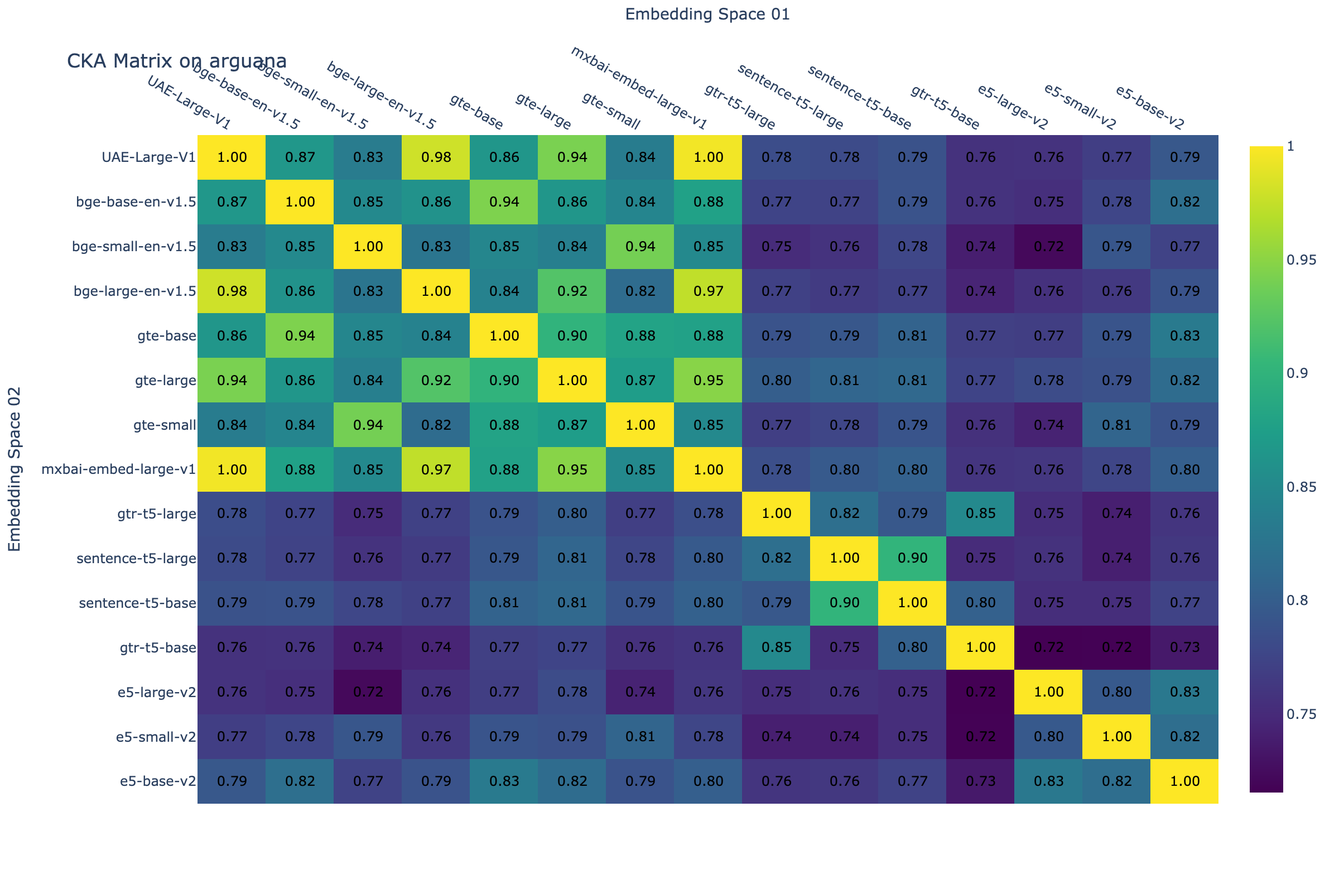
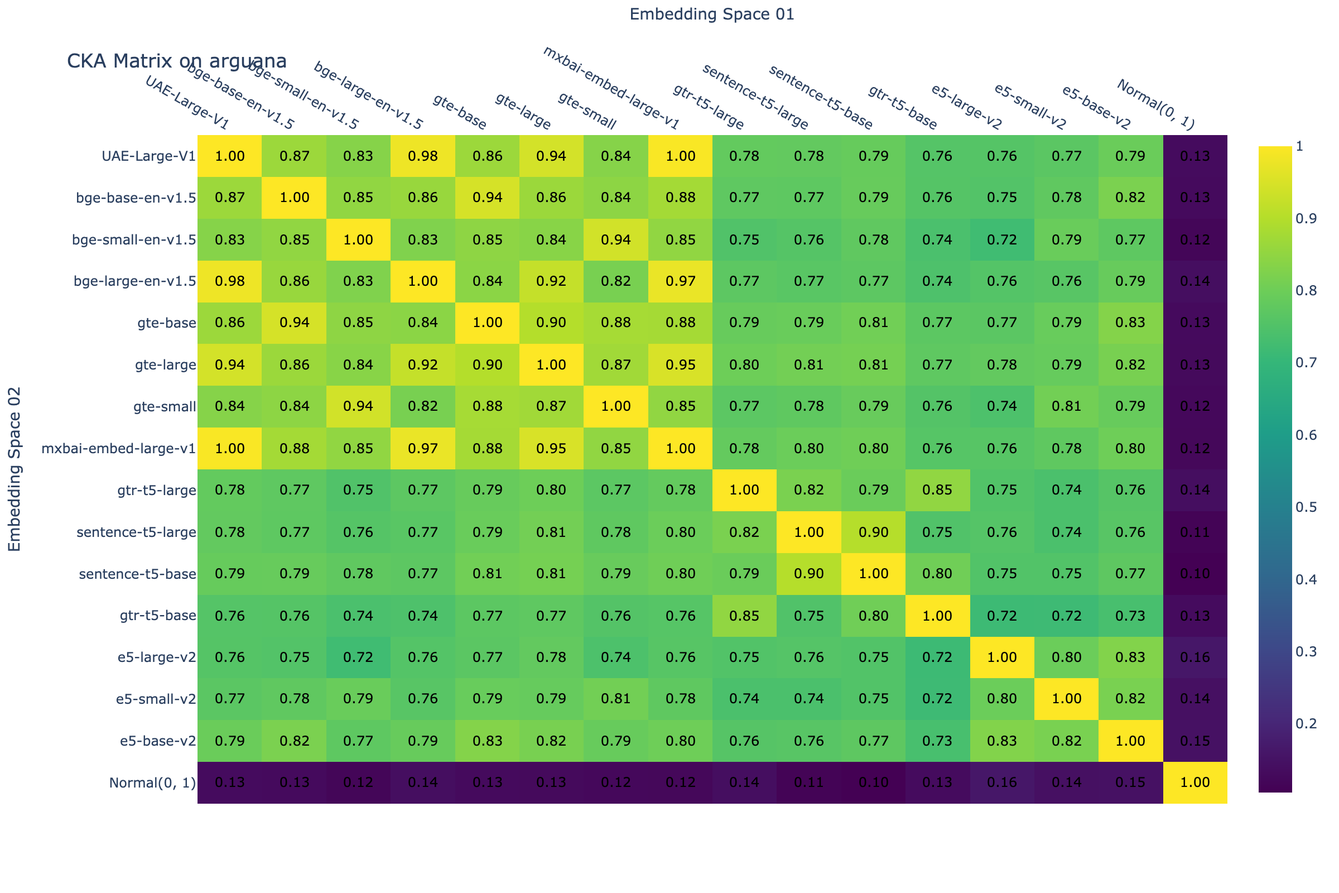
Randn cka dataviz

diff --git a/data/figs/html/cka_matrix_on_arguana.html b/data/figs/html/cka_matrix_on_arguana.html
@@ -2,6 +2,6 @@
 <head><meta charset="utf-8" /></head>
 <body>
     <div>                        <script type="text/javascript">window.PlotlyConfig = {MathJaxConfig: 'local'};</script>
-        <script charset="utf-8" src="https://cdn.plot.ly/plotly-2.35.2.min.js"></script>                <div id="1306fde9-1656-42dd-922a-cd3423a775f6" class="plotly-graph-div" style="height:600px; width:800px;"></div>            <script type="text/javascript">                                    window.PLOTLYENV=window.PLOTLYENV || {};                                    if (document.getElementById("1306fde9-1656-42dd-922a-cd3423a775f6")) {                    Plotly.newPlot(                        "1306fde9-1656-42dd-922a-cd3423a775f6",                        [{"colorscale":[[0.0,"#440154"],[0.1111111111111111,"#482878"],[0.2222222222222222,"#3e4989"],[0.3333333333333333,"#31688e"],[0.4444444444444444,"#26828e"],[0.5555555555555556,"#1f9e89"],[0.6666666666666666,"#35b779"],[0.7777777777777778,"#6ece58"],[0.8888888888888888,"#b5de2b"],[1.0,"#fde725"]],"reversescale":false,"showscale":true,"text":[["1.00","0.87","0.83","0.98","0.86","0.94","0.84","1.00","0.78","0.78","0.79","0.76","0.76","0.77","0.79"],["0.87","1.00","0.85","0.86","0.94","0.86","0.84","0.88","0.77","0.77","0.79","0.76","0.75","0.78","0.82"],["0.83","0.85","1.00","0.83","0.85","0.84","0.94","0.85","0.75","0.76","0.78","0.74","0.72","0.79","0.77"],["0.98","0.86","0.83","1.00","0.84","0.92","0.82","0.97","0.77","0.77","0.77","0.74","0.76","0.76","0.79"],["0.86","0.94","0.85","0.84","1.00","0.90","0.88","0.88","0.79","0.79","0.81","0.77","0.77","0.79","0.83"],["0.94","0.86","0.84","0.92","0.90","1.00","0.87","0.95","0.80","0.81","0.81","0.77","0.78","0.79","0.82"],["0.84","0.84","0.94","0.82","0.88","0.87","1.00","0.85","0.77","0.78","0.79","0.76","0.74","0.81","0.79"],["1.00","0.88","0.85","0.97","0.88","0.95","0.85","1.00","0.78","0.80","0.80","0.76","0.76","0.78","0.80"],["0.78","0.77","0.75","0.77","0.79","0.80","0.77","0.78","1.00","0.82","0.79","0.85","0.75","0.74","0.76"],["0.78","0.77","0.76","0.77","0.79","0.81","0.78","0.80","0.82","1.00","0.90","0.75","0.76","0.74","0.76"],["0.79","0.79","0.78","0.77","0.81","0.81","0.79","0.80","0.79","0.90","1.00","0.80","0.75","0.75","0.77"],["0.76","0.76","0.74","0.74","0.77","0.77","0.76","0.76","0.85","0.75","0.80","1.00","0.72","0.72","0.73"],["0.76","0.75","0.72","0.76","0.77","0.78","0.74","0.76","0.75","0.76","0.75","0.72","1.00","0.80","0.83"],["0.77","0.78","0.79","0.76","0.79","0.79","0.81","0.78","0.74","0.74","0.75","0.72","0.80","1.00","0.82"],["0.79","0.82","0.77","0.79","0.83","0.82","0.79","0.80","0.76","0.76","0.77","0.73","0.83","0.82","1.00"]],"textfont":{"color":"black"},"texttemplate":"%{text}","x":["UAE-Large-V1","bge-base-en-v1.5","bge-small-en-v1.5","bge-large-en-v1.5","gte-base","gte-large","gte-small","mxbai-embed-large-v1","gtr-t5-large","sentence-t5-large","sentence-t5-base","gtr-t5-base","e5-large-v2","e5-small-v2","e5-base-v2"],"y":["UAE-Large-V1","bge-base-en-v1.5","bge-small-en-v1.5","bge-large-en-v1.5","gte-base","gte-large","gte-small","mxbai-embed-large-v1","gtr-t5-large","sentence-t5-large","sentence-t5-base","gtr-t5-base","e5-large-v2","e5-small-v2","e5-base-v2"],"z":[[1.0,0.8658000230789185,0.834509551525116,0.9793905019760132,0.8648160099983215,0.9419227838516235,0.8350651264190674,0.9950689077377319,0.7825155854225159,0.7810524702072144,0.7876999974250793,0.7567200064659119,0.7574982047080994,0.7686067819595337,0.7938075661659241],[0.8658015131950378,1.0,0.8501662611961365,0.8599725365638733,0.9440552592277527,0.8646309971809387,0.8449110984802246,0.876795768737793,0.7741674780845642,0.7731221318244934,0.7887643575668335,0.7580522298812866,0.7541888356208801,0.7759740352630615,0.8187124729156494],[0.834510087966919,0.8501657843589783,1.0,0.826350212097168,0.8461841344833374,0.8377517461776733,0.9394041299819946,0.8501827120780945,0.7512004971504211,0.757952868938446,0.7763109803199768,0.7392458915710449,0.7216021418571472,0.7924290299415588,0.7734179496765137],[0.9793847799301147,0.8599743843078613,0.8263499140739441,1.0,0.8423765301704407,0.9215455055236816,0.8155598044395447,0.9731101393699646,0.7709497213363647,0.7650753259658813,0.7708640694618225,0.7448074817657471,0.7560820579528809,0.7631285190582275,0.7885932326316833],[0.8648156523704529,0.94405597448349,0.8461862802505493,0.8423777222633362,1.0,0.8996701836585999,0.8793571591377258,0.8774429559707642,0.7888010144233704,0.7926385402679443,0.8050522208213806,0.7702342867851257,0.7683220505714417,0.7904046177864075,0.8325111865997314],[0.9419196248054504,0.8646292090415955,0.8377506136894226,0.9215437769889832,0.8996678590774536,1.0,0.8723571300506592,0.9482884407043457,0.8000256419181824,0.8084313273429871,0.811175525188446,0.7742276191711426,0.7812641263008118,0.7869243621826172,0.8154665231704712],[0.835063636302948,0.8449124693870544,0.9394041299819946,0.8155595064163208,0.879357635974884,0.8723584413528442,1.0,0.849634051322937,0.7689297199249268,0.7754647731781006,0.7898792624473572,0.7553446292877197,0.7429813146591187,0.8068603873252869,0.7892369031906128],[0.9950701594352722,0.8767967820167542,0.8501850366592407,0.9731143712997437,0.8774425387382507,0.9482922554016113,0.8496338129043579,1.0,0.7844551801681519,0.7956090569496155,0.8026857376098633,0.7600216269493103,0.7612709403038025,0.7757282257080078,0.8009042739868164],[0.7825149893760681,0.774166464805603,0.7512022852897644,0.7709538340568542,0.7888017892837524,0.800024688243866,0.768930971622467,0.7844541668891907,1.0,0.818506121635437,0.7942366003990173,0.850216805934906,0.7527307271957397,0.7399923205375671,0.7599230408668518],[0.7810572385787964,0.7731233835220337,0.7579532861709595,0.7650783658027649,0.7926395535469055,0.8084335923194885,0.7754657864570618,0.7956089377403259,0.8185052871704102,1.0,0.9012106657028198,0.7512814998626709,0.7566186785697937,0.7398398518562317,0.7624647617340088],[0.787700891494751,0.7887636423110962,0.7763127088546753,0.7708651423454285,0.8050510287284851,0.811176598072052,0.7898804545402527,0.8026852011680603,0.7942384481430054,0.9012084007263184,1.0,0.8033334612846375,0.7528200149536133,0.752769947052002,0.7727075219154358],[0.7567205429077148,0.7580527663230896,0.7392461895942688,0.7448076605796814,0.7702328562736511,0.7742283940315247,0.7553446888923645,0.7600218057632446,0.850216805934906,0.751279890537262,0.8033342957496643,1.0,0.7154765725135803,0.7165485620498657,0.7347339987754822],[0.7574993968009949,0.7541875839233398,0.7216029167175293,0.7560868263244629,0.7683217525482178,0.7812650799751282,0.7429805397987366,0.7612679600715637,0.7527288794517517,0.7566170692443848,0.752819299697876,0.715480625629425,1.0,0.7951511144638062,0.8291886448860168],[0.7686052918434143,0.7759735584259033,0.7924295663833618,0.7631293535232544,0.7904038429260254,0.7869256138801575,0.806861162185669,0.7757283449172974,0.7399925589561462,0.7398405075073242,0.7527707815170288,0.7165493965148926,0.795149028301239,1.0,0.8170276284217834],[0.7938058376312256,0.8187136650085449,0.7734171748161316,0.7885941863059998,0.8325127363204956,0.8154661059379578,0.7892375588417053,0.8009036183357239,0.7599237561225891,0.7624659538269043,0.7727087736129761,0.7347357869148254,0.8291898965835571,0.81702721118927,1.0]],"type":"heatmap"}],                        {"template":{"data":{"histogram2dcontour":[{"type":"histogram2dcontour","colorbar":{"outlinewidth":0,"ticks":""},"colorscale":[[0.0,"#0d0887"],[0.1111111111111111,"#46039f"],[0.2222222222222222,"#7201a8"],[0.3333333333333333,"#9c179e"],[0.4444444444444444,"#bd3786"],[0.5555555555555556,"#d8576b"],[0.6666666666666666,"#ed7953"],[0.7777777777777778,"#fb9f3a"],[0.8888888888888888,"#fdca26"],[1.0,"#f0f921"]]}],"choropleth":[{"type":"choropleth","colorbar":{"outlinewidth":0,"ticks":""}}],"histogram2d":[{"type":"histogram2d","colorbar":{"outlinewidth":0,"ticks":""},"colorscale":[[0.0,"#0d0887"],[0.1111111111111111,"#46039f"],[0.2222222222222222,"#7201a8"],[0.3333333333333333,"#9c179e"],[0.4444444444444444,"#bd3786"],[0.5555555555555556,"#d8576b"],[0.6666666666666666,"#ed7953"],[0.7777777777777778,"#fb9f3a"],[0.8888888888888888,"#fdca26"],[1.0,"#f0f921"]]}],"heatmap":[{"type":"heatmap","colorbar":{"outlinewidth":0,"ticks":""},"colorscale":[[0.0,"#0d0887"],[0.1111111111111111,"#46039f"],[0.2222222222222222,"#7201a8"],[0.3333333333333333,"#9c179e"],[0.4444444444444444,"#bd3786"],[0.5555555555555556,"#d8576b"],[0.6666666666666666,"#ed7953"],[0.7777777777777778,"#fb9f3a"],[0.8888888888888888,"#fdca26"],[1.0,"#f0f921"]]}],"heatmapgl":[{"type":"heatmapgl","colorbar":{"outlinewidth":0,"ticks":""},"colorscale":[[0.0,"#0d0887"],[0.1111111111111111,"#46039f"],[0.2222222222222222,"#7201a8"],[0.3333333333333333,"#9c179e"],[0.4444444444444444,"#bd3786"],[0.5555555555555556,"#d8576b"],[0.6666666666666666,"#ed7953"],[0.7777777777777778,"#fb9f3a"],[0.8888888888888888,"#fdca26"],[1.0,"#f0f921"]]}],"contourcarpet":[{"type":"contourcarpet","colorbar":{"outlinewidth":0,"ticks":""}}],"contour":[{"type":"contour","colorbar":{"outlinewidth":0,"ticks":""},"colorscale":[[0.0,"#0d0887"],[0.1111111111111111,"#46039f"],[0.2222222222222222,"#7201a8"],[0.3333333333333333,"#9c179e"],[0.4444444444444444,"#bd3786"],[0.5555555555555556,"#d8576b"],[0.6666666666666666,"#ed7953"],[0.7777777777777778,"#fb9f3a"],[0.8888888888888888,"#fdca26"],[1.0,"#f0f921"]]}],"surface":[{"type":"surface","colorbar":{"outlinewidth":0,"ticks":""},"colorscale":[[0.0,"#0d0887"],[0.1111111111111111,"#46039f"],[0.2222222222222222,"#7201a8"],[0.3333333333333333,"#9c179e"],[0.4444444444444444,"#bd3786"],[0.5555555555555556,"#d8576b"],[0.6666666666666666,"#ed7953"],[0.7777777777777778,"#fb9f3a"],[0.8888888888888888,"#fdca26"],[1.0,"#f0f921"]]}],"mesh3d":[{"type":"mesh3d","colorbar":{"outlinewidth":0,"ticks":""}}],"scatter":[{"fillpattern":{"fillmode":"overlay","size":10,"solidity":0.2},"type":"scatter"}],"parcoords":[{"type":"parcoords","line":{"colorbar":{"outlinewidth":0,"ticks":""}}}],"scatterpolargl":[{"type":"scatterpolargl","marker":{"colorbar":{"outlinewidth":0,"ticks":""}}}],"bar":[{"error_x":{"color":"#2a3f5f"},"error_y":{"color":"#2a3f5f"},"marker":{"line":{"color":"#E5ECF6","width":0.5},"pattern":{"fillmode":"overlay","size":10,"solidity":0.2}},"type":"bar"}],"scattergeo":[{"type":"scattergeo","marker":{"colorbar":{"outlinewidth":0,"ticks":""}}}],"scatterpolar":[{"type":"scatterpolar","marker":{"colorbar":{"outlinewidth":0,"ticks":""}}}],"histogram":[{"marker":{"pattern":{"fillmode":"overlay","size":10,"solidity":0.2}},"type":"histogram"}],"scattergl":[{"type":"scattergl","marker":{"colorbar":{"outlinewidth":0,"ticks":""}}}],"scatter3d":[{"type":"scatter3d","line":{"colorbar":{"outlinewidth":0,"ticks":""}},"marker":{"colorbar":{"outlinewidth":0,"ticks":""}}}],"scattermapbox":[{"type":"scattermapbox","marker":{"colorbar":{"outlinewidth":0,"ticks":""}}}],"scatterternary":[{"type":"scatterternary","marker":{"colorbar":{"outlinewidth":0,"ticks":""}}}],"scattercarpet":[{"type":"scattercarpet","marker":{"colorbar":{"outlinewidth":0,"ticks":""}}}],"carpet":[{"aaxis":{"endlinecolor":"#2a3f5f","gridcolor":"white","linecolor":"white","minorgridcolor":"white","startlinecolor":"#2a3f5f"},"baxis":{"endlinecolor":"#2a3f5f","gridcolor":"white","linecolor":"white","minorgridcolor":"white","startlinecolor":"#2a3f5f"},"type":"carpet"}],"table":[{"cells":{"fill":{"color":"#EBF0F8"},"line":{"color":"white"}},"header":{"fill":{"color":"#C8D4E3"},"line":{"color":"white"}},"type":"table"}],"barpolar":[{"marker":{"line":{"color":"#E5ECF6","width":0.5},"pattern":{"fillmode":"overlay","size":10,"solidity":0.2}},"type":"barpolar"}],"pie":[{"automargin":true,"type":"pie"}]},"layout":{"autotypenumbers":"strict","colorway":["#636efa","#EF553B","#00cc96","#ab63fa","#FFA15A","#19d3f3","#FF6692","#B6E880","#FF97FF","#FECB52"],"font":{"color":"#2a3f5f"},"hovermode":"closest","hoverlabel":{"align":"left"},"paper_bgcolor":"white","plot_bgcolor":"#E5ECF6","polar":{"bgcolor":"#E5ECF6","angularaxis":{"gridcolor":"white","linecolor":"white","ticks":""},"radialaxis":{"gridcolor":"white","linecolor":"white","ticks":""}},"ternary":{"bgcolor":"#E5ECF6","aaxis":{"gridcolor":"white","linecolor":"white","ticks":""},"baxis":{"gridcolor":"white","linecolor":"white","ticks":""},"caxis":{"gridcolor":"white","linecolor":"white","ticks":""}},"coloraxis":{"colorbar":{"outlinewidth":0,"ticks":""}},"colorscale":{"sequential":[[0.0,"#0d0887"],[0.1111111111111111,"#46039f"],[0.2222222222222222,"#7201a8"],[0.3333333333333333,"#9c179e"],[0.4444444444444444,"#bd3786"],[0.5555555555555556,"#d8576b"],[0.6666666666666666,"#ed7953"],[0.7777777777777778,"#fb9f3a"],[0.8888888888888888,"#fdca26"],[1.0,"#f0f921"]],"sequentialminus":[[0.0,"#0d0887"],[0.1111111111111111,"#46039f"],[0.2222222222222222,"#7201a8"],[0.3333333333333333,"#9c179e"],[0.4444444444444444,"#bd3786"],[0.5555555555555556,"#d8576b"],[0.6666666666666666,"#ed7953"],[0.7777777777777778,"#fb9f3a"],[0.8888888888888888,"#fdca26"],[1.0,"#f0f921"]],"diverging":[[0,"#8e0152"],[0.1,"#c51b7d"],[0.2,"#de77ae"],[0.3,"#f1b6da"],[0.4,"#fde0ef"],[0.5,"#f7f7f7"],[0.6,"#e6f5d0"],[0.7,"#b8e186"],[0.8,"#7fbc41"],[0.9,"#4d9221"],[1,"#276419"]]},"xaxis":{"gridcolor":"white","linecolor":"white","ticks":"","title":{"standoff":15},"zerolinecolor":"white","automargin":true,"zerolinewidth":2},"yaxis":{"gridcolor":"white","linecolor":"white","ticks":"","title":{"standoff":15},"zerolinecolor":"white","automargin":true,"zerolinewidth":2},"scene":{"xaxis":{"backgroundcolor":"#E5ECF6","gridcolor":"white","linecolor":"white","showbackground":true,"ticks":"","zerolinecolor":"white","gridwidth":2},"yaxis":{"backgroundcolor":"#E5ECF6","gridcolor":"white","linecolor":"white","showbackground":true,"ticks":"","zerolinecolor":"white","gridwidth":2},"zaxis":{"backgroundcolor":"#E5ECF6","gridcolor":"white","linecolor":"white","showbackground":true,"ticks":"","zerolinecolor":"white","gridwidth":2}},"shapedefaults":{"line":{"color":"#2a3f5f"}},"annotationdefaults":{"arrowcolor":"#2a3f5f","arrowhead":0,"arrowwidth":1},"geo":{"bgcolor":"white","landcolor":"#E5ECF6","subunitcolor":"white","showland":true,"showlakes":true,"lakecolor":"white"},"title":{"x":0.05},"mapbox":{"style":"light"}}},"xaxis":{"nticks":15,"title":{"text":"Embedding Space 01"},"side":"top"},"yaxis":{"nticks":15,"title":{"text":"Embedding Space 02"},"autorange":"reversed"},"title":{"text":"CKA Matrix on arguana"},"width":800,"height":600},                        {"responsive": true}                    )                };                            </script>        </div>
+        <script charset="utf-8" src="https://cdn.plot.ly/plotly-2.35.2.min.js"></script>                <div id="4baf000b-dc80-44e4-b768-c646e07b9ac0" class="plotly-graph-div" style="height:600px; width:800px;"></div>            <script type="text/javascript">                                    window.PLOTLYENV=window.PLOTLYENV || {};                                    if (document.getElementById("4baf000b-dc80-44e4-b768-c646e07b9ac0")) {                    Plotly.newPlot(                        "4baf000b-dc80-44e4-b768-c646e07b9ac0",                        [{"colorscale":[[0.0,"#440154"],[0.1111111111111111,"#482878"],[0.2222222222222222,"#3e4989"],[0.3333333333333333,"#31688e"],[0.4444444444444444,"#26828e"],[0.5555555555555556,"#1f9e89"],[0.6666666666666666,"#35b779"],[0.7777777777777778,"#6ece58"],[0.8888888888888888,"#b5de2b"],[1.0,"#fde725"]],"reversescale":false,"showscale":true,"text":[["1.00","0.87","0.83","0.98","0.86","0.94","0.84","1.00","0.78","0.78","0.79","0.76","0.76","0.77","0.79","0.13"],["0.87","1.00","0.85","0.86","0.94","0.86","0.84","0.88","0.77","0.77","0.79","0.76","0.75","0.78","0.82","0.13"],["0.83","0.85","1.00","0.83","0.85","0.84","0.94","0.85","0.75","0.76","0.78","0.74","0.72","0.79","0.77","0.12"],["0.98","0.86","0.83","1.00","0.84","0.92","0.82","0.97","0.77","0.77","0.77","0.74","0.76","0.76","0.79","0.14"],["0.86","0.94","0.85","0.84","1.00","0.90","0.88","0.88","0.79","0.79","0.81","0.77","0.77","0.79","0.83","0.13"],["0.94","0.86","0.84","0.92","0.90","1.00","0.87","0.95","0.80","0.81","0.81","0.77","0.78","0.79","0.82","0.13"],["0.84","0.84","0.94","0.82","0.88","0.87","1.00","0.85","0.77","0.78","0.79","0.76","0.74","0.81","0.79","0.12"],["1.00","0.88","0.85","0.97","0.88","0.95","0.85","1.00","0.78","0.80","0.80","0.76","0.76","0.78","0.80","0.12"],["0.78","0.77","0.75","0.77","0.79","0.80","0.77","0.78","1.00","0.82","0.79","0.85","0.75","0.74","0.76","0.14"],["0.78","0.77","0.76","0.77","0.79","0.81","0.78","0.80","0.82","1.00","0.90","0.75","0.76","0.74","0.76","0.11"],["0.79","0.79","0.78","0.77","0.81","0.81","0.79","0.80","0.79","0.90","1.00","0.80","0.75","0.75","0.77","0.10"],["0.76","0.76","0.74","0.74","0.77","0.77","0.76","0.76","0.85","0.75","0.80","1.00","0.72","0.72","0.73","0.13"],["0.76","0.75","0.72","0.76","0.77","0.78","0.74","0.76","0.75","0.76","0.75","0.72","1.00","0.80","0.83","0.16"],["0.77","0.78","0.79","0.76","0.79","0.79","0.81","0.78","0.74","0.74","0.75","0.72","0.80","1.00","0.82","0.14"],["0.79","0.82","0.77","0.79","0.83","0.82","0.79","0.80","0.76","0.76","0.77","0.73","0.83","0.82","1.00","0.15"],["0.13","0.13","0.12","0.14","0.13","0.13","0.12","0.12","0.14","0.11","0.10","0.13","0.16","0.14","0.15","1.00"]],"textfont":{"color":"black"},"texttemplate":"%{text}","x":["UAE-Large-V1","bge-base-en-v1.5","bge-small-en-v1.5","bge-large-en-v1.5","gte-base","gte-large","gte-small","mxbai-embed-large-v1","gtr-t5-large","sentence-t5-large","sentence-t5-base","gtr-t5-base","e5-large-v2","e5-small-v2","e5-base-v2","Normal(0, 1)"],"y":["UAE-Large-V1","bge-base-en-v1.5","bge-small-en-v1.5","bge-large-en-v1.5","gte-base","gte-large","gte-small","mxbai-embed-large-v1","gtr-t5-large","sentence-t5-large","sentence-t5-base","gtr-t5-base","e5-large-v2","e5-small-v2","e5-base-v2","Normal(0, 1)"],"z":[[1.0,0.8658000230789185,0.834509551525116,0.9793905019760132,0.8648160099983215,0.9419227838516235,0.8350651264190674,0.9950689077377319,0.7825155854225159,0.7810524702072144,0.7876999974250793,0.7567200064659119,0.7574982047080994,0.7686067819595337,0.7938075661659241,0.13144555687904358],[0.8658015131950378,1.0,0.8501662611961365,0.8599725365638733,0.9440552592277527,0.8646309971809387,0.8449110984802246,0.876795768737793,0.7741674780845642,0.7731221318244934,0.7887643575668335,0.7580522298812866,0.7541888356208801,0.7759740352630615,0.8187124729156494,0.12886537611484528],[0.834510087966919,0.8501657843589783,1.0,0.826350212097168,0.8461841344833374,0.8377517461776733,0.9394041299819946,0.8501827120780945,0.7512004971504211,0.757952868938446,0.7763109803199768,0.7392458915710449,0.7216021418571472,0.7924290299415588,0.7734179496765137,0.11708482354879379],[0.9793847799301147,0.8599743843078613,0.8263499140739441,1.0,0.8423765301704407,0.9215455055236816,0.8155598044395447,0.9731101393699646,0.7709497213363647,0.7650753259658813,0.7708640694618225,0.7448074817657471,0.7560820579528809,0.7631285190582275,0.7885932326316833,0.1373065859079361],[0.8648156523704529,0.94405597448349,0.8461862802505493,0.8423777222633362,1.0,0.8996701836585999,0.8793571591377258,0.8774429559707642,0.7888010144233704,0.7926385402679443,0.8050522208213806,0.7702342867851257,0.7683220505714417,0.7904046177864075,0.8325111865997314,0.12852557003498077],[0.9419196248054504,0.8646292090415955,0.8377506136894226,0.9215437769889832,0.8996678590774536,1.0,0.8723571300506592,0.9482884407043457,0.8000256419181824,0.8084313273429871,0.811175525188446,0.7742276191711426,0.7812641263008118,0.7869243621826172,0.8154665231704712,0.12739303708076477],[0.835063636302948,0.8449124693870544,0.9394041299819946,0.8155595064163208,0.879357635974884,0.8723584413528442,1.0,0.849634051322937,0.7689297199249268,0.7754647731781006,0.7898792624473572,0.7553446292877197,0.7429813146591187,0.8068603873252869,0.7892369031906128,0.12324010580778122],[0.9950701594352722,0.8767967820167542,0.8501850366592407,0.9731143712997437,0.8774425387382507,0.9482922554016113,0.8496338129043579,1.0,0.7844551801681519,0.7956090569496155,0.8026857376098633,0.7600216269493103,0.7612709403038025,0.7757282257080078,0.8009042739868164,0.12180281430482864],[0.7825149893760681,0.774166464805603,0.7512022852897644,0.7709538340568542,0.7888017892837524,0.800024688243866,0.768930971622467,0.7844541668891907,1.0,0.818506121635437,0.7942366003990173,0.850216805934906,0.7527307271957397,0.7399923205375671,0.7599230408668518,0.13865724205970764],[0.7810572385787964,0.7731233835220337,0.7579532861709595,0.7650783658027649,0.7926395535469055,0.8084335923194885,0.7754657864570618,0.7956089377403259,0.8185052871704102,1.0,0.9012106657028198,0.7512814998626709,0.7566186785697937,0.7398398518562317,0.7624647617340088,0.1112392470240593],[0.787700891494751,0.7887636423110962,0.7763127088546753,0.7708651423454285,0.8050510287284851,0.811176598072052,0.7898804545402527,0.8026852011680603,0.7942384481430054,0.9012084007263184,1.0,0.8033334612846375,0.7528200149536133,0.752769947052002,0.7727075219154358,0.10483192652463913],[0.7567205429077148,0.7580527663230896,0.7392461895942688,0.7448076605796814,0.7702328562736511,0.7742283940315247,0.7553446888923645,0.7600218057632446,0.850216805934906,0.751279890537262,0.8033342957496643,1.0,0.7154765725135803,0.7165485620498657,0.7347339987754822,0.13115565478801727],[0.7574993968009949,0.7541875839233398,0.7216029167175293,0.7560868263244629,0.7683217525482178,0.7812650799751282,0.7429805397987366,0.7612679600715637,0.7527288794517517,0.7566170692443848,0.752819299697876,0.715480625629425,1.0,0.7951511144638062,0.8291886448860168,0.16142667829990387],[0.7686052918434143,0.7759735584259033,0.7924295663833618,0.7631293535232544,0.7904038429260254,0.7869256138801575,0.806861162185669,0.7757283449172974,0.7399925589561462,0.7398405075073242,0.7527707815170288,0.7165493965148926,0.795149028301239,1.0,0.8170276284217834,0.1435679942369461],[0.7938058376312256,0.8187136650085449,0.7734171748161316,0.7885941863059998,0.8325127363204956,0.8154661059379578,0.7892375588417053,0.8009036183357239,0.7599237561225891,0.7624659538269043,0.7727087736129761,0.7347357869148254,0.8291898965835571,0.81702721118927,1.0,0.14550836384296417],[0.13144569098949432,0.1288653165102005,0.11708482354879379,0.1373068392276764,0.12852567434310913,0.1273927539587021,0.12324010580778122,0.12180284410715103,0.13865748047828674,0.1112394705414772,0.10483226925134659,0.13115546107292175,0.16142646968364716,0.14356814324855804,0.14550819993019104,1.0]],"type":"heatmap"}],                        {"template":{"data":{"histogram2dcontour":[{"type":"histogram2dcontour","colorbar":{"outlinewidth":0,"ticks":""},"colorscale":[[0.0,"#0d0887"],[0.1111111111111111,"#46039f"],[0.2222222222222222,"#7201a8"],[0.3333333333333333,"#9c179e"],[0.4444444444444444,"#bd3786"],[0.5555555555555556,"#d8576b"],[0.6666666666666666,"#ed7953"],[0.7777777777777778,"#fb9f3a"],[0.8888888888888888,"#fdca26"],[1.0,"#f0f921"]]}],"choropleth":[{"type":"choropleth","colorbar":{"outlinewidth":0,"ticks":""}}],"histogram2d":[{"type":"histogram2d","colorbar":{"outlinewidth":0,"ticks":""},"colorscale":[[0.0,"#0d0887"],[0.1111111111111111,"#46039f"],[0.2222222222222222,"#7201a8"],[0.3333333333333333,"#9c179e"],[0.4444444444444444,"#bd3786"],[0.5555555555555556,"#d8576b"],[0.6666666666666666,"#ed7953"],[0.7777777777777778,"#fb9f3a"],[0.8888888888888888,"#fdca26"],[1.0,"#f0f921"]]}],"heatmap":[{"type":"heatmap","colorbar":{"outlinewidth":0,"ticks":""},"colorscale":[[0.0,"#0d0887"],[0.1111111111111111,"#46039f"],[0.2222222222222222,"#7201a8"],[0.3333333333333333,"#9c179e"],[0.4444444444444444,"#bd3786"],[0.5555555555555556,"#d8576b"],[0.6666666666666666,"#ed7953"],[0.7777777777777778,"#fb9f3a"],[0.8888888888888888,"#fdca26"],[1.0,"#f0f921"]]}],"heatmapgl":[{"type":"heatmapgl","colorbar":{"outlinewidth":0,"ticks":""},"colorscale":[[0.0,"#0d0887"],[0.1111111111111111,"#46039f"],[0.2222222222222222,"#7201a8"],[0.3333333333333333,"#9c179e"],[0.4444444444444444,"#bd3786"],[0.5555555555555556,"#d8576b"],[0.6666666666666666,"#ed7953"],[0.7777777777777778,"#fb9f3a"],[0.8888888888888888,"#fdca26"],[1.0,"#f0f921"]]}],"contourcarpet":[{"type":"contourcarpet","colorbar":{"outlinewidth":0,"ticks":""}}],"contour":[{"type":"contour","colorbar":{"outlinewidth":0,"ticks":""},"colorscale":[[0.0,"#0d0887"],[0.1111111111111111,"#46039f"],[0.2222222222222222,"#7201a8"],[0.3333333333333333,"#9c179e"],[0.4444444444444444,"#bd3786"],[0.5555555555555556,"#d8576b"],[0.6666666666666666,"#ed7953"],[0.7777777777777778,"#fb9f3a"],[0.8888888888888888,"#fdca26"],[1.0,"#f0f921"]]}],"surface":[{"type":"surface","colorbar":{"outlinewidth":0,"ticks":""},"colorscale":[[0.0,"#0d0887"],[0.1111111111111111,"#46039f"],[0.2222222222222222,"#7201a8"],[0.3333333333333333,"#9c179e"],[0.4444444444444444,"#bd3786"],[0.5555555555555556,"#d8576b"],[0.6666666666666666,"#ed7953"],[0.7777777777777778,"#fb9f3a"],[0.8888888888888888,"#fdca26"],[1.0,"#f0f921"]]}],"mesh3d":[{"type":"mesh3d","colorbar":{"outlinewidth":0,"ticks":""}}],"scatter":[{"fillpattern":{"fillmode":"overlay","size":10,"solidity":0.2},"type":"scatter"}],"parcoords":[{"type":"parcoords","line":{"colorbar":{"outlinewidth":0,"ticks":""}}}],"scatterpolargl":[{"type":"scatterpolargl","marker":{"colorbar":{"outlinewidth":0,"ticks":""}}}],"bar":[{"error_x":{"color":"#2a3f5f"},"error_y":{"color":"#2a3f5f"},"marker":{"line":{"color":"#E5ECF6","width":0.5},"pattern":{"fillmode":"overlay","size":10,"solidity":0.2}},"type":"bar"}],"scattergeo":[{"type":"scattergeo","marker":{"colorbar":{"outlinewidth":0,"ticks":""}}}],"scatterpolar":[{"type":"scatterpolar","marker":{"colorbar":{"outlinewidth":0,"ticks":""}}}],"histogram":[{"marker":{"pattern":{"fillmode":"overlay","size":10,"solidity":0.2}},"type":"histogram"}],"scattergl":[{"type":"scattergl","marker":{"colorbar":{"outlinewidth":0,"ticks":""}}}],"scatter3d":[{"type":"scatter3d","line":{"colorbar":{"outlinewidth":0,"ticks":""}},"marker":{"colorbar":{"outlinewidth":0,"ticks":""}}}],"scattermapbox":[{"type":"scattermapbox","marker":{"colorbar":{"outlinewidth":0,"ticks":""}}}],"scatterternary":[{"type":"scatterternary","marker":{"colorbar":{"outlinewidth":0,"ticks":""}}}],"scattercarpet":[{"type":"scattercarpet","marker":{"colorbar":{"outlinewidth":0,"ticks":""}}}],"carpet":[{"aaxis":{"endlinecolor":"#2a3f5f","gridcolor":"white","linecolor":"white","minorgridcolor":"white","startlinecolor":"#2a3f5f"},"baxis":{"endlinecolor":"#2a3f5f","gridcolor":"white","linecolor":"white","minorgridcolor":"white","startlinecolor":"#2a3f5f"},"type":"carpet"}],"table":[{"cells":{"fill":{"color":"#EBF0F8"},"line":{"color":"white"}},"header":{"fill":{"color":"#C8D4E3"},"line":{"color":"white"}},"type":"table"}],"barpolar":[{"marker":{"line":{"color":"#E5ECF6","width":0.5},"pattern":{"fillmode":"overlay","size":10,"solidity":0.2}},"type":"barpolar"}],"pie":[{"automargin":true,"type":"pie"}]},"layout":{"autotypenumbers":"strict","colorway":["#636efa","#EF553B","#00cc96","#ab63fa","#FFA15A","#19d3f3","#FF6692","#B6E880","#FF97FF","#FECB52"],"font":{"color":"#2a3f5f"},"hovermode":"closest","hoverlabel":{"align":"left"},"paper_bgcolor":"white","plot_bgcolor":"#E5ECF6","polar":{"bgcolor":"#E5ECF6","angularaxis":{"gridcolor":"white","linecolor":"white","ticks":""},"radialaxis":{"gridcolor":"white","linecolor":"white","ticks":""}},"ternary":{"bgcolor":"#E5ECF6","aaxis":{"gridcolor":"white","linecolor":"white","ticks":""},"baxis":{"gridcolor":"white","linecolor":"white","ticks":""},"caxis":{"gridcolor":"white","linecolor":"white","ticks":""}},"coloraxis":{"colorbar":{"outlinewidth":0,"ticks":""}},"colorscale":{"sequential":[[0.0,"#0d0887"],[0.1111111111111111,"#46039f"],[0.2222222222222222,"#7201a8"],[0.3333333333333333,"#9c179e"],[0.4444444444444444,"#bd3786"],[0.5555555555555556,"#d8576b"],[0.6666666666666666,"#ed7953"],[0.7777777777777778,"#fb9f3a"],[0.8888888888888888,"#fdca26"],[1.0,"#f0f921"]],"sequentialminus":[[0.0,"#0d0887"],[0.1111111111111111,"#46039f"],[0.2222222222222222,"#7201a8"],[0.3333333333333333,"#9c179e"],[0.4444444444444444,"#bd3786"],[0.5555555555555556,"#d8576b"],[0.6666666666666666,"#ed7953"],[0.7777777777777778,"#fb9f3a"],[0.8888888888888888,"#fdca26"],[1.0,"#f0f921"]],"diverging":[[0,"#8e0152"],[0.1,"#c51b7d"],[0.2,"#de77ae"],[0.3,"#f1b6da"],[0.4,"#fde0ef"],[0.5,"#f7f7f7"],[0.6,"#e6f5d0"],[0.7,"#b8e186"],[0.8,"#7fbc41"],[0.9,"#4d9221"],[1,"#276419"]]},"xaxis":{"gridcolor":"white","linecolor":"white","ticks":"","title":{"standoff":15},"zerolinecolor":"white","automargin":true,"zerolinewidth":2},"yaxis":{"gridcolor":"white","linecolor":"white","ticks":"","title":{"standoff":15},"zerolinecolor":"white","automargin":true,"zerolinewidth":2},"scene":{"xaxis":{"backgroundcolor":"#E5ECF6","gridcolor":"white","linecolor":"white","showbackground":true,"ticks":"","zerolinecolor":"white","gridwidth":2},"yaxis":{"backgroundcolor":"#E5ECF6","gridcolor":"white","linecolor":"white","showbackground":true,"ticks":"","zerolinecolor":"white","gridwidth":2},"zaxis":{"backgroundcolor":"#E5ECF6","gridcolor":"white","linecolor":"white","showbackground":true,"ticks":"","zerolinecolor":"white","gridwidth":2}},"shapedefaults":{"line":{"color":"#2a3f5f"}},"annotationdefaults":{"arrowcolor":"#2a3f5f","arrowhead":0,"arrowwidth":1},"geo":{"bgcolor":"white","landcolor":"#E5ECF6","subunitcolor":"white","showland":true,"showlakes":true,"lakecolor":"white"},"title":{"x":0.05},"mapbox":{"style":"light"}}},"xaxis":{"nticks":16,"title":{"text":"Embedding Space 01"},"side":"top"},"yaxis":{"nticks":16,"title":{"text":"Embedding Space 02"},"autorange":"reversed"},"title":{"text":"CKA Matrix on arguana"},"width":800,"height":600},                        {"responsive": true}                    )                };                            </script>        </div>
 </body>
 </html>
